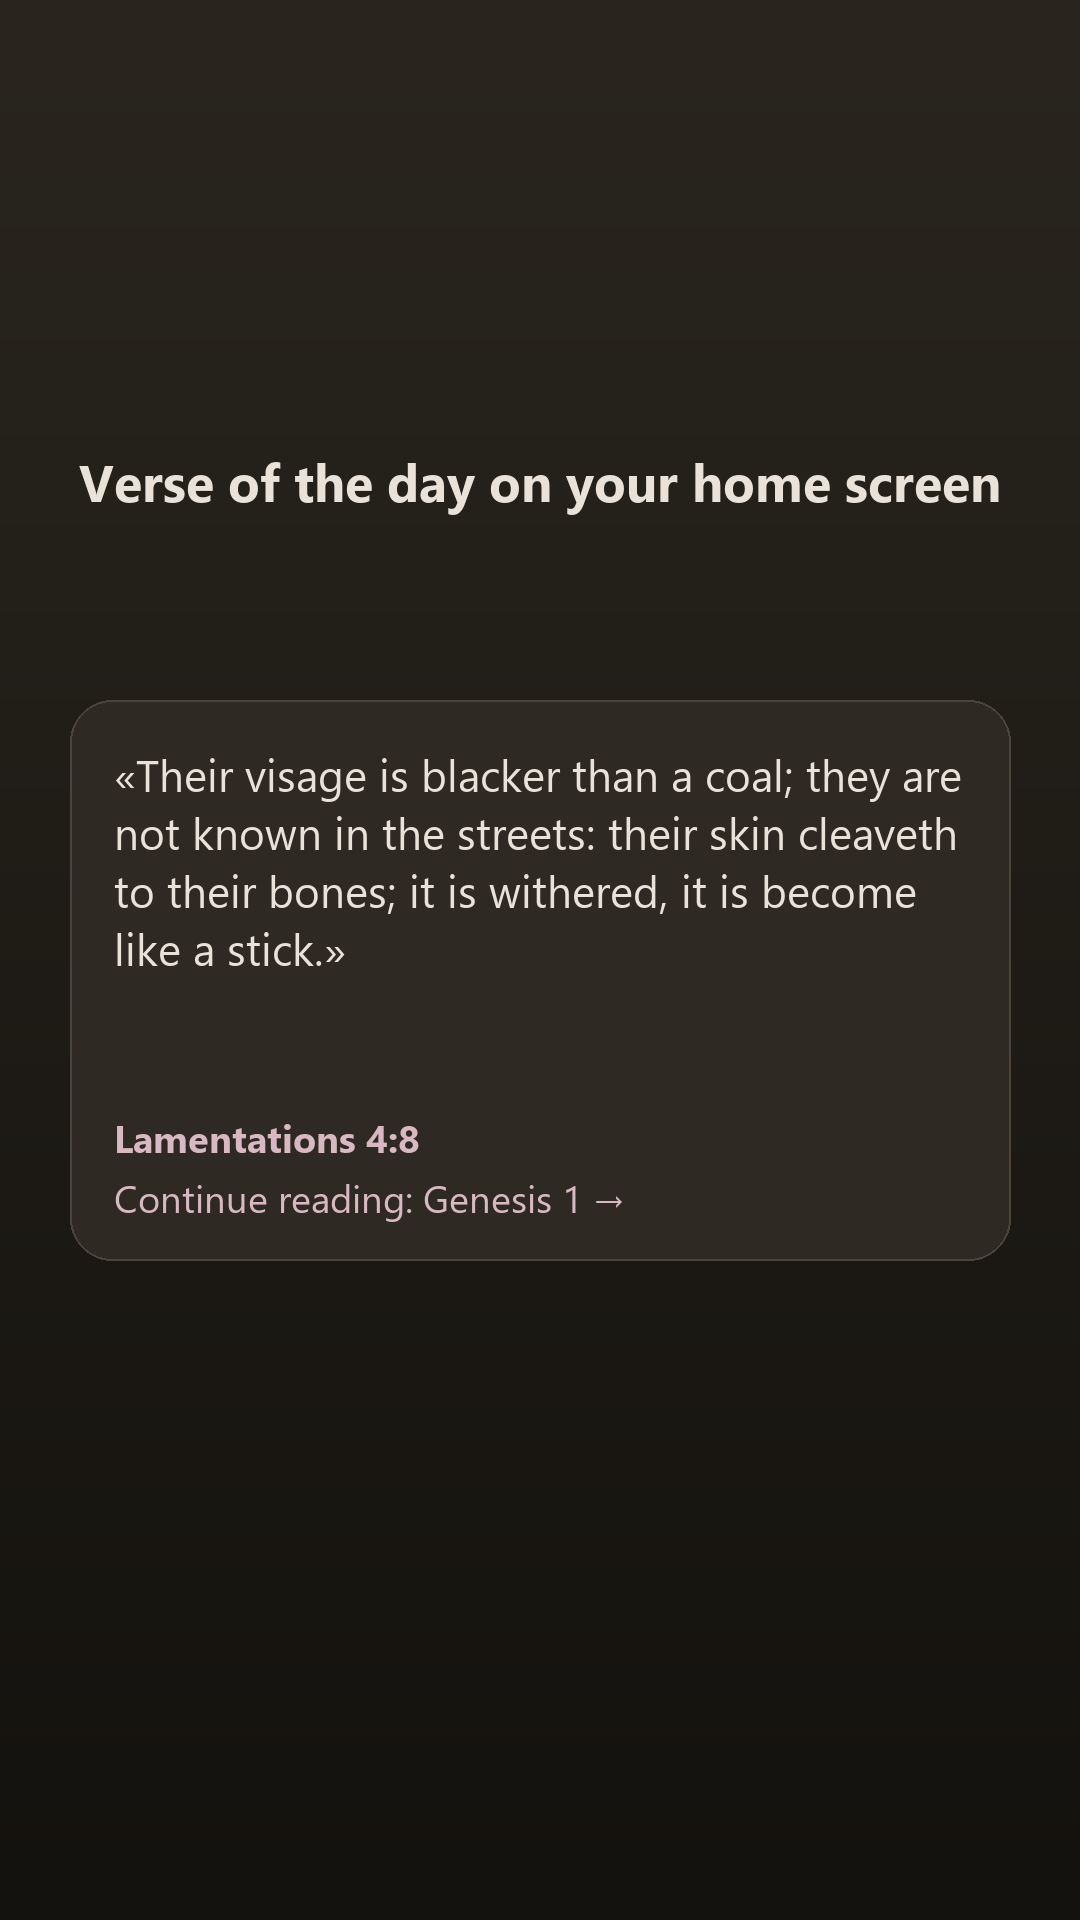
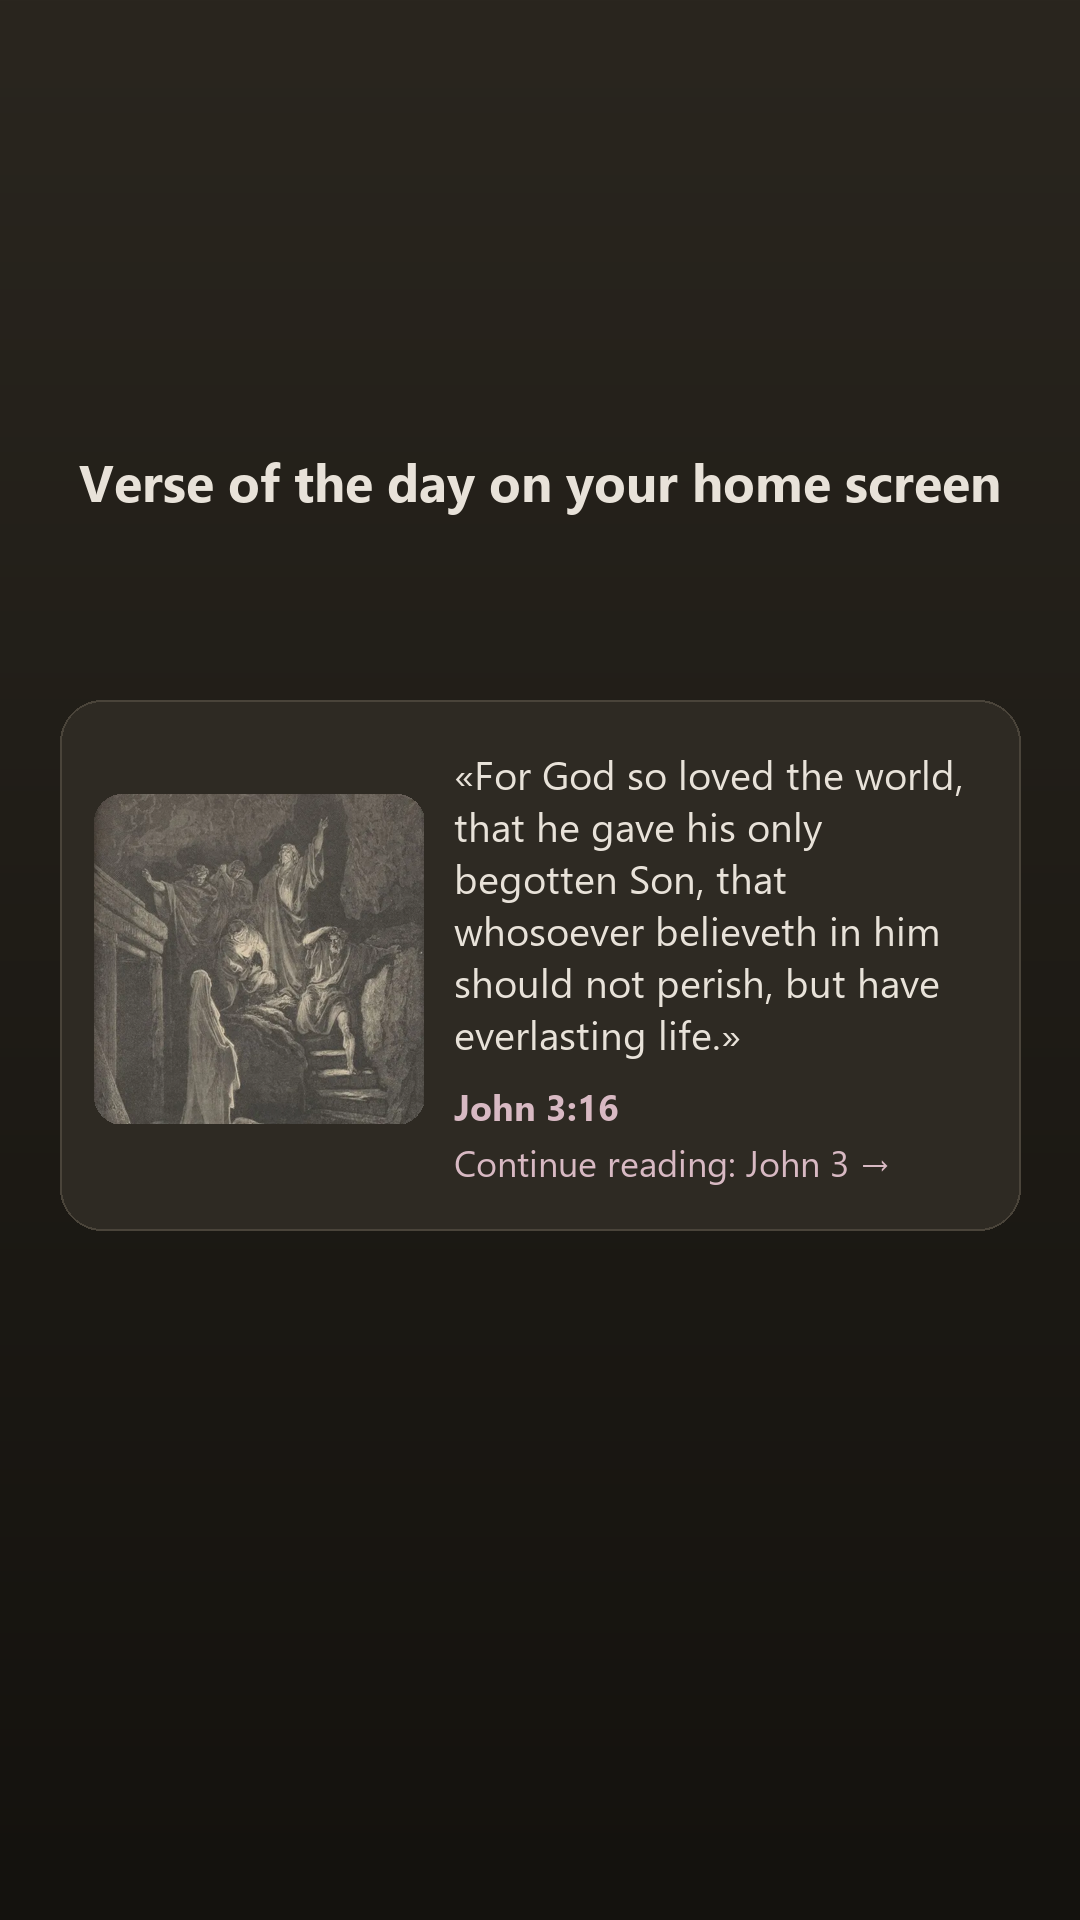
Widget cover art, unified verse-jump scrolling, John 3:16 store shot
The widget now shows the daily verse's book engraving. Search/topic/xref
verse jumps no longer race the chapter scroll-to-top.

diff --git a/app/src/main/java/com/aleks/hexapla/ReaderScreen.kt b/app/src/main/java/com/aleks/hexapla/ReaderScreen.kt
@@ -65,6 +65,7 @@ import androidx.compose.runtime.remember
 import androidx.compose.runtime.rememberCoroutineScope
 import androidx.compose.runtime.setValue
 import androidx.compose.runtime.snapshotFlow
+import androidx.compose.runtime.withFrameNanos
 import androidx.compose.ui.Alignment
 import androidx.compose.ui.Modifier
 import androidx.compose.ui.input.pointer.pointerInput
@@ -209,18 +210,25 @@ fun ReaderScreen(settings: AppSettings) {
             }
     }
 
-    // Start new chapters at the top — unless a target verse is pending.
-    LaunchedEffect(book, chapter) {
-        if (AppState.scrollToVerse.intValue < 0) listState.scrollToItem(0)
-    }
-    // Jump to a requested verse (topics, search, xrefs, deep links). Kept out
-    // of the effect above: resetting the target must not re-trigger a scroll.
+    // One collector owns all position scrolling: verse jumps (search, topics,
+    // xrefs, deep links) win over the scroll-to-top on chapter change. Split
+    // effects raced — the jump landed first, then the chapter effect saw no
+    // pending target and reset to the top.
+    var lastPosition by remember { mutableStateOf(-1 to -1) }
     LaunchedEffect(Unit) {
-        snapshotFlow { AppState.scrollToVerse.intValue }.collect { target ->
+        snapshotFlow {
+            Triple(AppState.book.intValue, AppState.chapter.intValue, AppState.scrollToVerse.intValue)
+        }.collect { (b, c, target) ->
+            val movedChapter = (b to c) != lastPosition
+            lastPosition = b to c
             if (target >= 0) {
-                val max = (listState.layoutInfo.totalItemsCount - 1).coerceAtLeast(0)
-                listState.scrollToItem(target.coerceIn(0, max))
+                // Let the new chapter's list compose before scrolling into it.
+                withFrameNanos { }
+                withFrameNanos { }
+                listState.scrollToItem(target.coerceAtLeast(0))
                 AppState.scrollToVerse.intValue = -1
+            } else if (movedChapter) {
+                listState.scrollToItem(0)
             }
         }
     }

diff --git a/app/src/main/java/com/aleks/hexapla/VerseWidget.kt b/app/src/main/java/com/aleks/hexapla/VerseWidget.kt
@@ -5,6 +5,12 @@ import android.appwidget.AppWidgetManager
 import android.appwidget.AppWidgetProvider
 import android.content.Context
 import android.content.Intent
+import android.graphics.Bitmap
+import android.graphics.BitmapShader
+import android.graphics.Canvas
+import android.graphics.Paint
+import android.graphics.RectF
+import android.graphics.Shader
 import android.widget.RemoteViews
 import kotlinx.coroutines.CoroutineScope
 import kotlinx.coroutines.Dispatchers
@@ -38,8 +44,14 @@ class VerseWidget : AppWidgetProvider() {
                     R.string.widget_continue,
                     "${books[settings.lastBook.coerceIn(books.indices)].name} ${settings.lastChapter + 1}"
                 )
+                // Book cover art, scaled down and rounded for the widget.
+                val art = roundedCorners(
+                    Bitmap.createScaledBitmap(BookArt.forBook(context, b, books[b].name), 256, 256, true),
+                    28f
+                )
                 ids.forEach { id ->
                     val views = RemoteViews(context.packageName, R.layout.widget_verse).apply {
+                        setImageViewBitmap(R.id.widget_art, art)
                         setTextViewText(R.id.widget_verse, "«${verses[v].trim()}»")
                         setTextViewText(R.id.widget_ref, "${books[b].name} ${c + 1}:${v + 1}")
                         setTextViewText(R.id.widget_continue, continueLabel)
@@ -60,5 +72,17 @@ class VerseWidget : AppWidgetProvider() {
                 pending.finish()
             }
         }
+    }
+
+    private fun roundedCorners(src: Bitmap, radius: Float): Bitmap {
+        val out = Bitmap.createBitmap(src.width, src.height, Bitmap.Config.ARGB_8888)
+        val canvas = Canvas(out)
+        val paint = Paint(Paint.ANTI_ALIAS_FLAG).apply {
+            shader = BitmapShader(src, Shader.TileMode.CLAMP, Shader.TileMode.CLAMP)
+        }
+        canvas.drawRoundRect(
+            RectF(0f, 0f, src.width.toFloat(), src.height.toFloat()), radius, radius, paint
+        )
+        return out
     }
 }